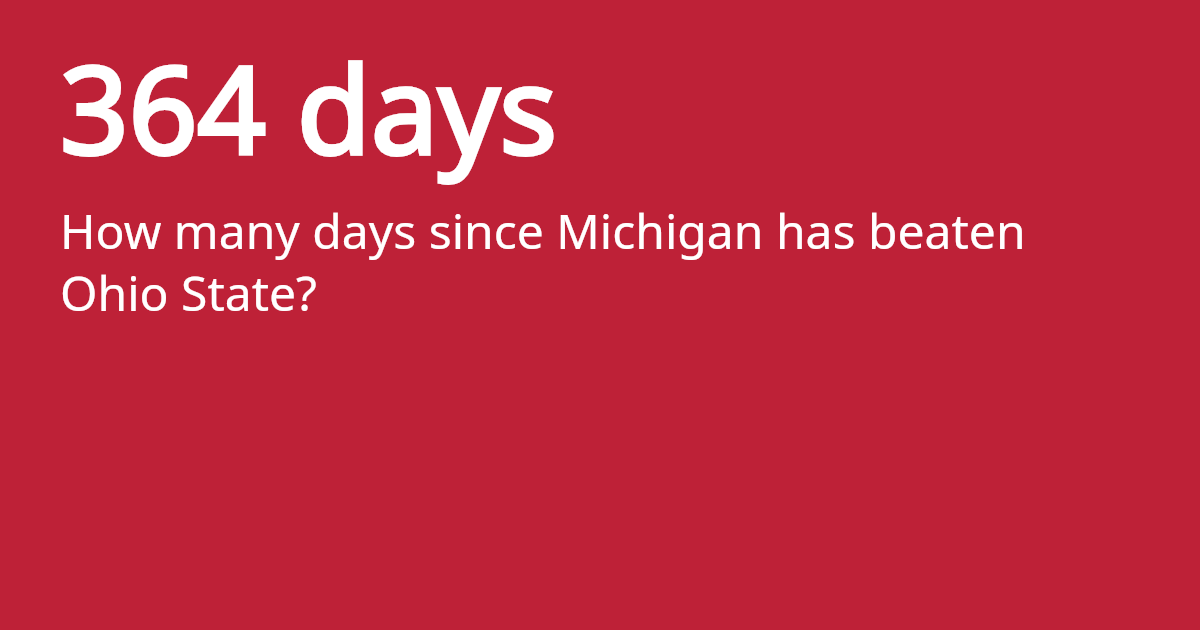
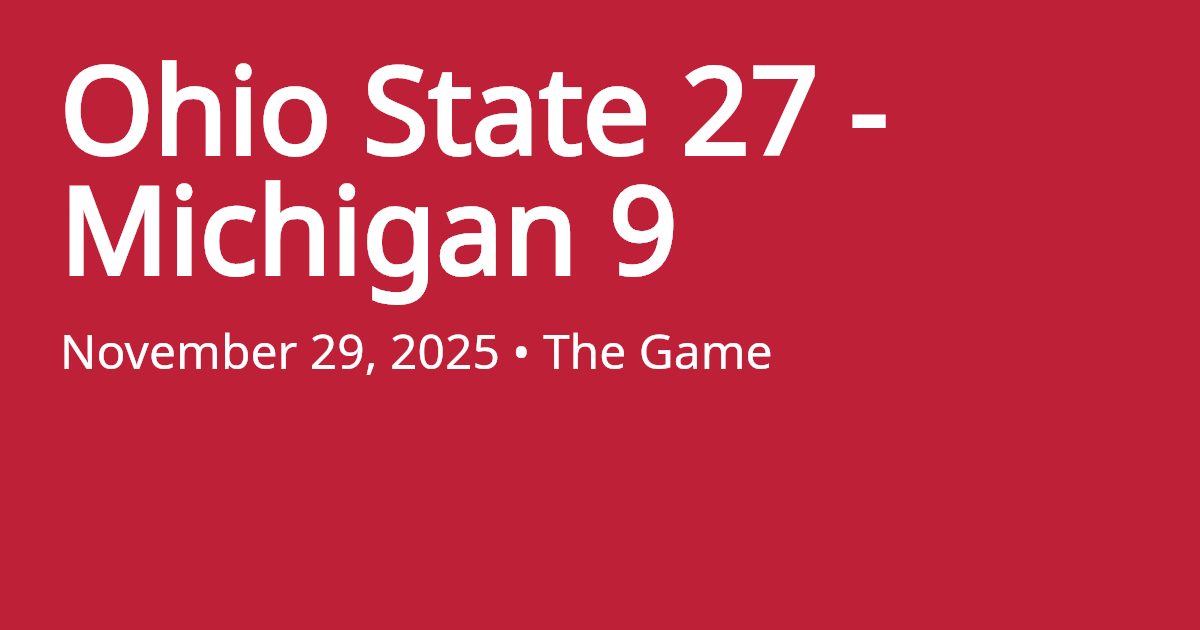
update home OG image to show 2025 game score instead of day count

Changed region(s): [[0.0308, 0.0905, 0.8633, 0.5127], [0.0308, 0.5127, 0.6475, 0.6032], [0.7092, 0.181, 0.74, 0.2111]]

diff --git a/src/pages/og/[...route].ts b/src/pages/og/[...route].ts
@@ -12,8 +12,8 @@ export const { getStaticPaths, GET } = OGImageRoute({
   param: 'route',
   pages: {
     home: {
-      title: `${daysSince} days`,
-      description: 'How many days since Michigan has beaten Ohio State?',
+      title: 'Ohio State 27 - Michigan 9',
+      description: 'November 29, 2025 • The Game',
     },
     'mo-carmen': {
       title: 'Mo Carmen',
